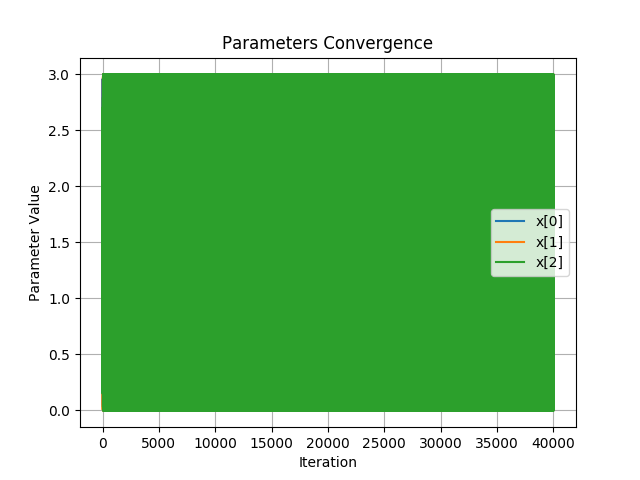
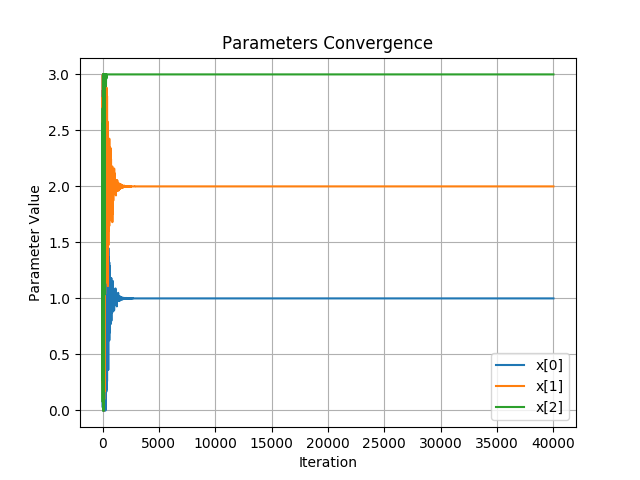
correcting code

diff --git a/lab4/particle_swarm_optimization.py b/lab4/particle_swarm_optimization.py
@@ -27,7 +27,7 @@ class Particle:
             self.velocity[i] = random_velocity
 
         self.my_best_value = -inf
-        self.my_best_position = self.position
+        self.my_best_position = np.array(self.position)
 
 
 class ParticleSwarmOptimization:
@@ -62,7 +62,7 @@ class ParticleSwarmOptimization:
             self.particles.append(particle)
 
         self.global_best_value = -inf
-        self.global_best_position = self.particles[0].position
+        self.global_best_position = np.array(self.particles[0].position)
 
         self.count_particle_to_evaluate = 0
 
@@ -112,7 +112,7 @@ class ParticleSwarmOptimization:
 
             print("velocity antiga: " + str(particle.velocity))
             particle.velocity = self.inertia_weight * particle.velocity + \
-                                self.cognitive_parameter * r_p * (particle.my_best_position - particle.position) - \
+                                self.cognitive_parameter * r_p * (particle.my_best_position - particle.position) + \
                                 self.social_parameter * r_g * (self.global_best_position - particle.position)
             print("primeiro calculo de velocity: " + str(particle.velocity))
 
